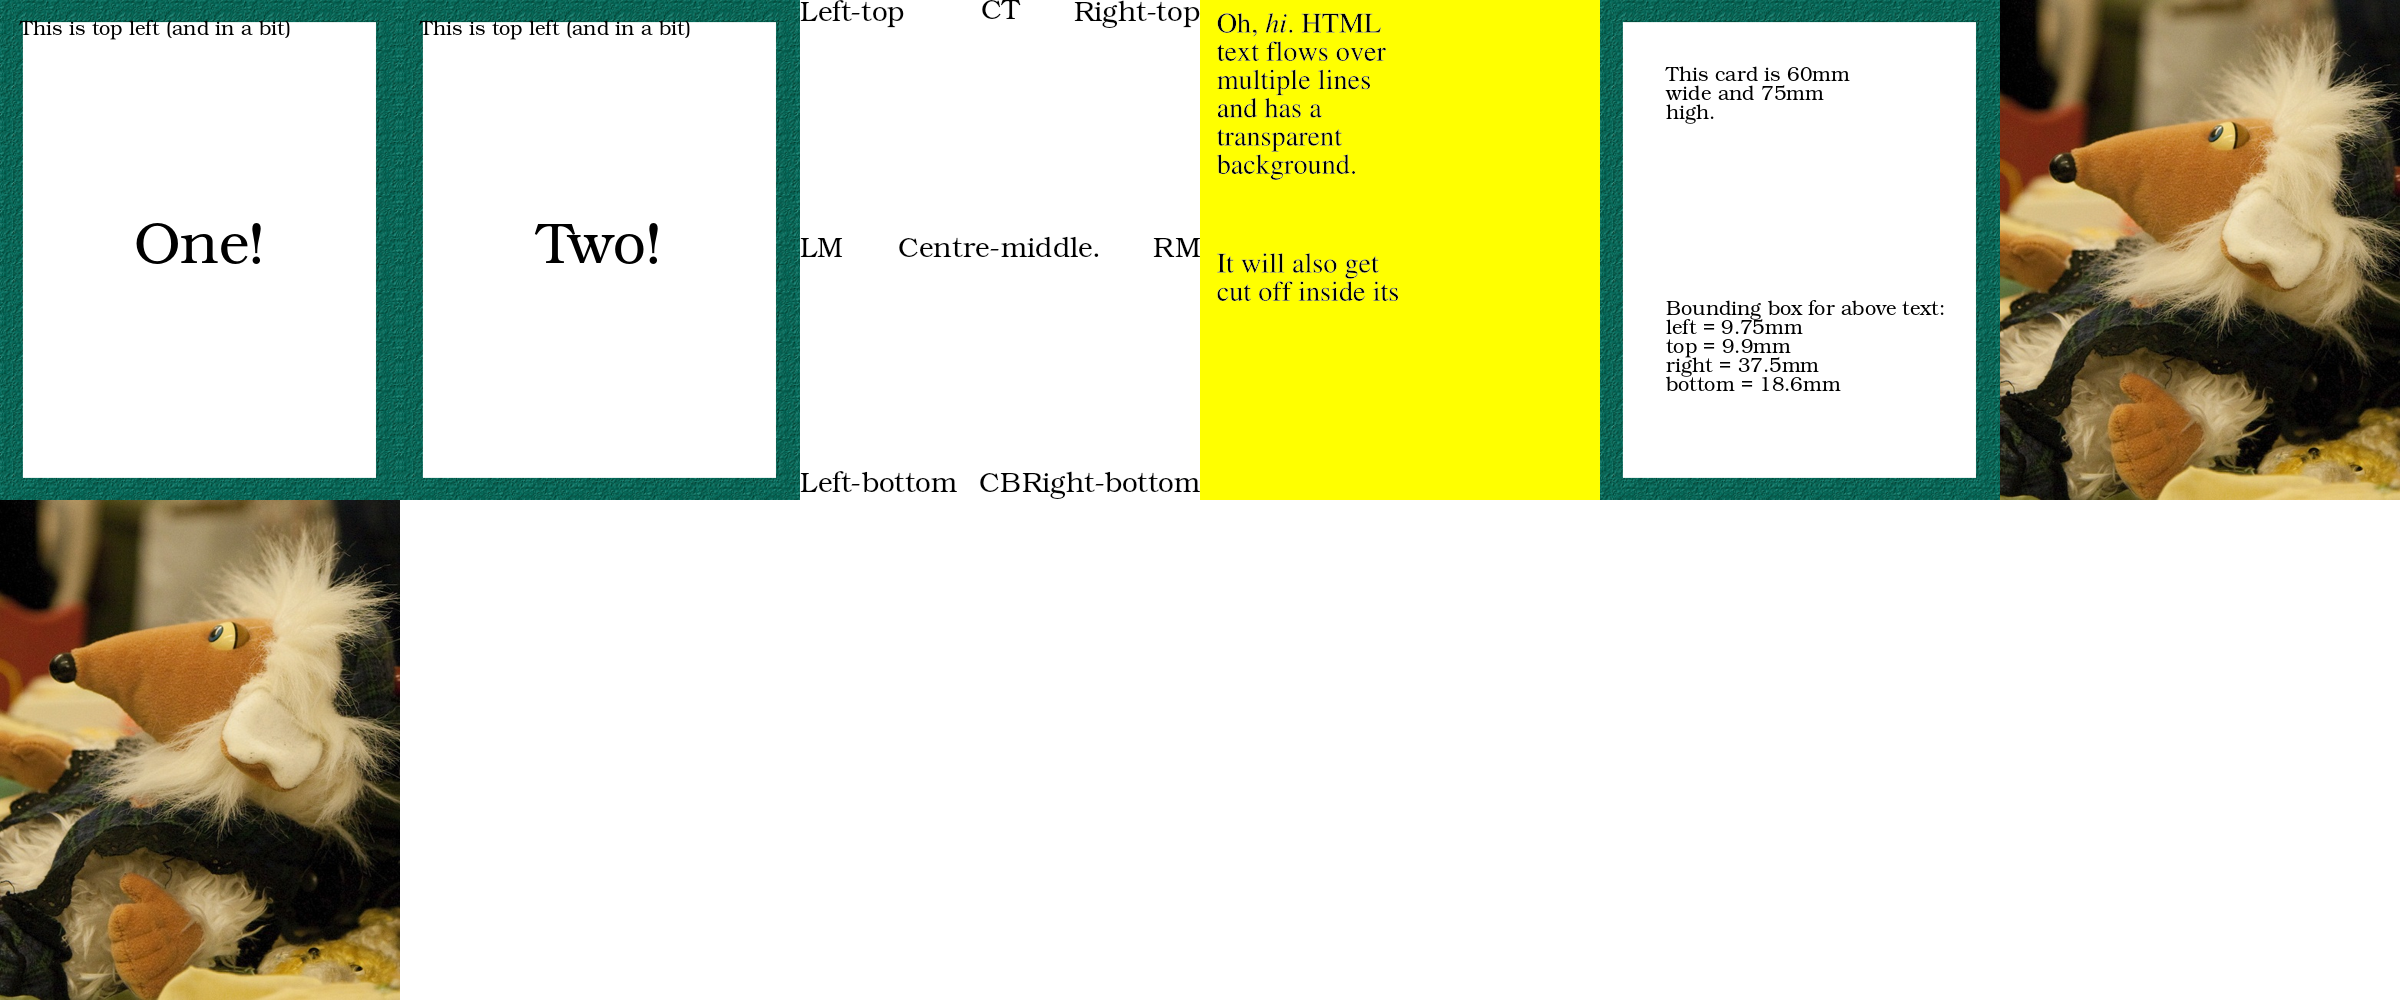
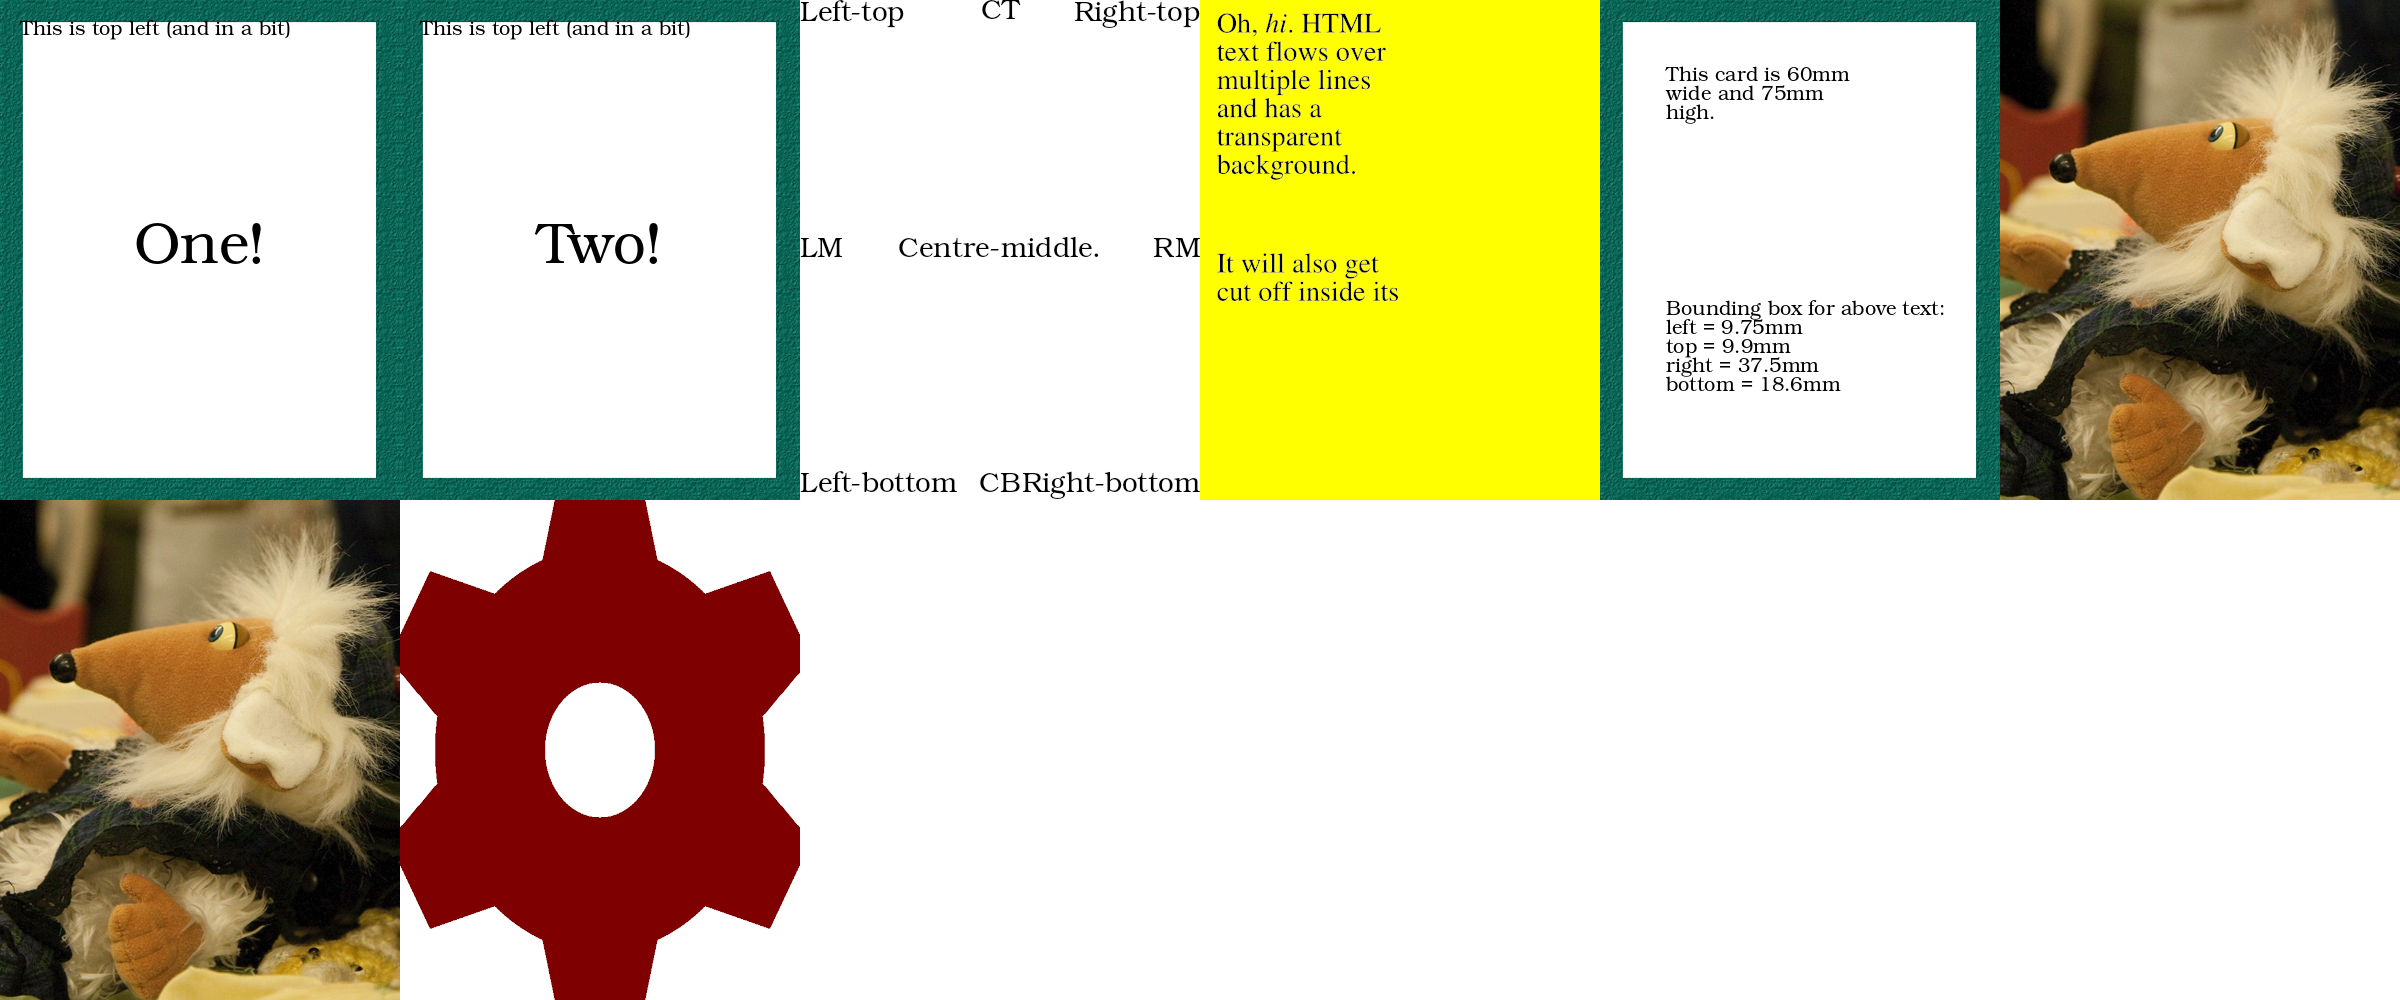
Demo colour wash with a PNG.

Changed region(s): [[0.1562, 0.496, 0.3438, 1.0]]

diff --git a/demos/card_maker_demo.py b/demos/card_maker_demo.py
@@ -197,3 +197,21 @@ def bounding_box_demo():
                        )
 
     return maker
+
+
+def colour_wash():
+    """
+    Return a card that has a red colour wash.
+    """
+
+    maker = base_maker.copy()
+
+    im = Image.open(assets_dir + '/cog.png')
+    im = im.resize(size = maker.size_with_gutters_px)
+
+    maker.paste(im     = im,
+                x_left = -maker.gutter,
+                y_top  = -maker.gutter,
+                )
+    maker.colour_wash((255,0,0))    # Red
+    return maker

diff --git a/demos/image_sheet_demo.py b/demos/image_sheet_demo.py
@@ -34,6 +34,8 @@ sheet.add(card_maker_demo.bounding_box_demo())
 sheet.add(Image.open('demos/assets/womble.jpg'))    # We can add any image, which will scale
 sheet.add('demos/assets/womble.jpg')                # We can use a filename directly, too.
 
+sheet.add(card_maker_demo.colour_wash())
+
 
 outfile = outdir + '/demo.png'
 sheet.save(outfile)

diff --git a/gamehelper/card_maker.py b/gamehelper/card_maker.py
@@ -561,7 +561,7 @@ class CardMaker:
         Transparency will be preserved.
         """
 
-        self._card_im = self.colour_wash_image(self._card_im, colour)
+        self._im_with_gutters = self.colour_wash_image(self._im_with_gutters, colour)
 
 
     @staticmethod
